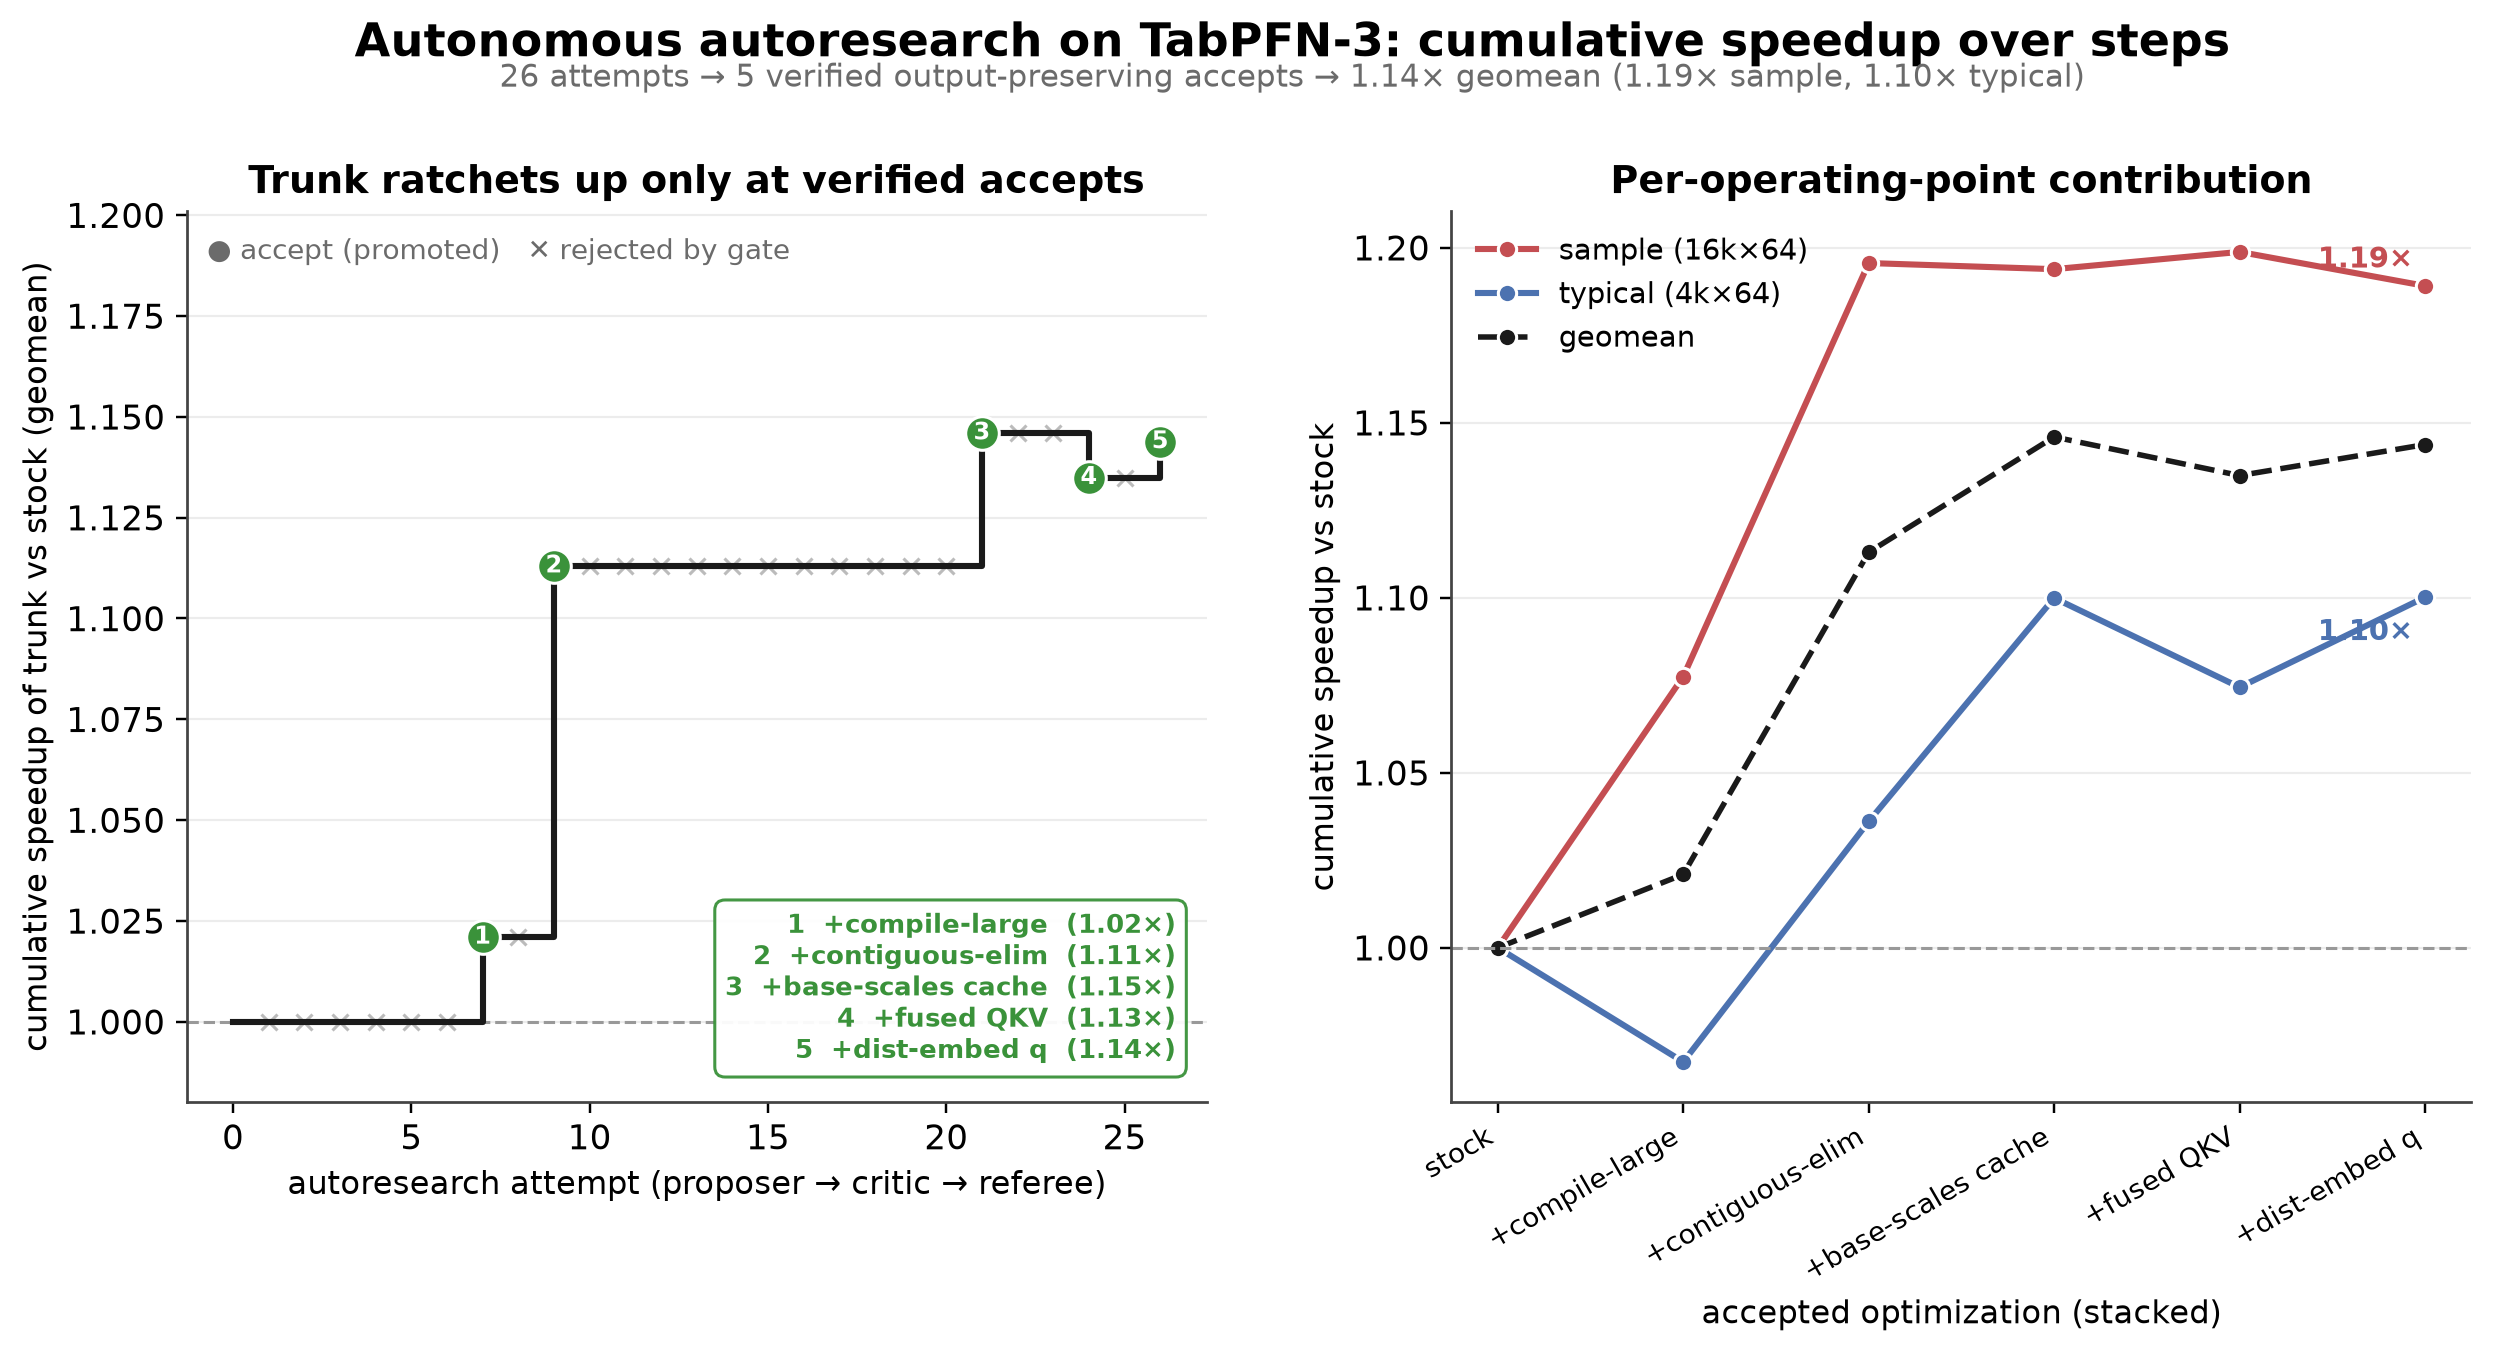
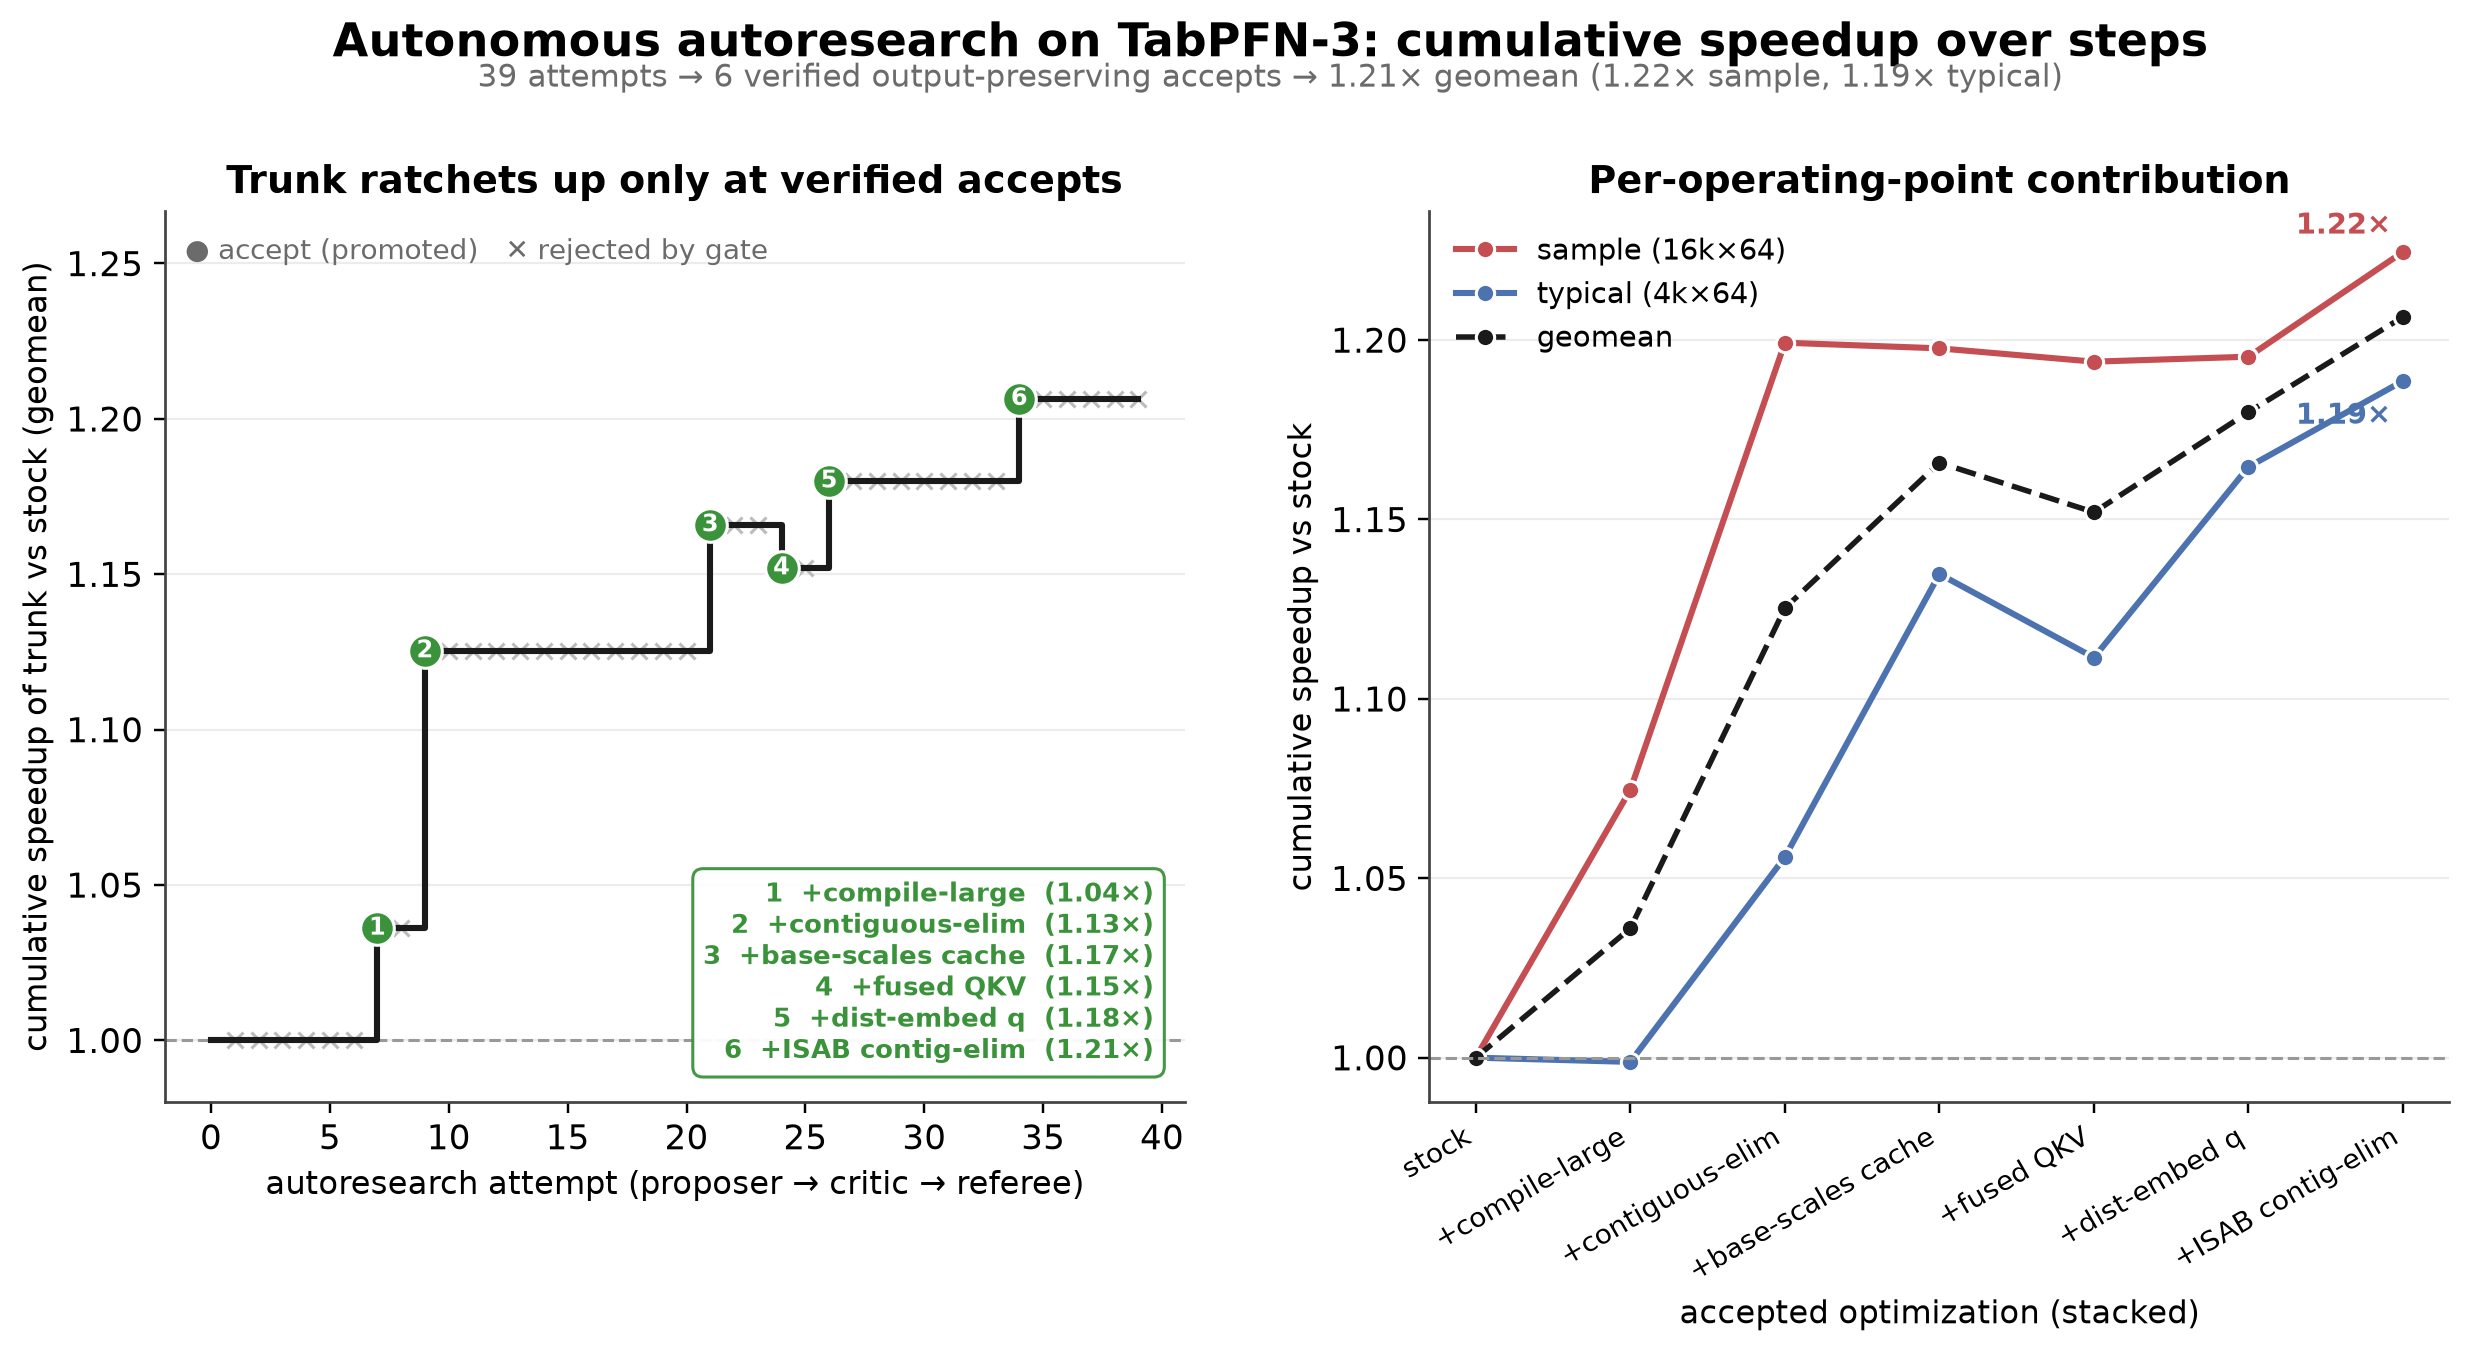
Refresh trajectory: 6 accepts, ~1.21x geomean (1.22x sample, 1.19x typical)
Adds the 3h-run accept (ISAB transpose/contiguous elimination) to the
trajectory plot. 39 attempts -> 6 verified output-preserving accepts.

Generated with AI

diff --git a/plot_steps.py b/plot_steps.py
@@ -26,7 +26,7 @@ GREEN, BLUE, RED = "#3a923a", "#4c72b0", "#c44e52"
 
 # short labels for each accepted optimization (in order)
 STEP_LABELS = ["stock", "+compile-large", "+contiguous-elim", "+base-scales cache",
-               "+fused QKV", "+dist-embed q"]
+               "+fused QKV", "+dist-embed q", "+ISAB contig-elim"]
 
 
 def main():